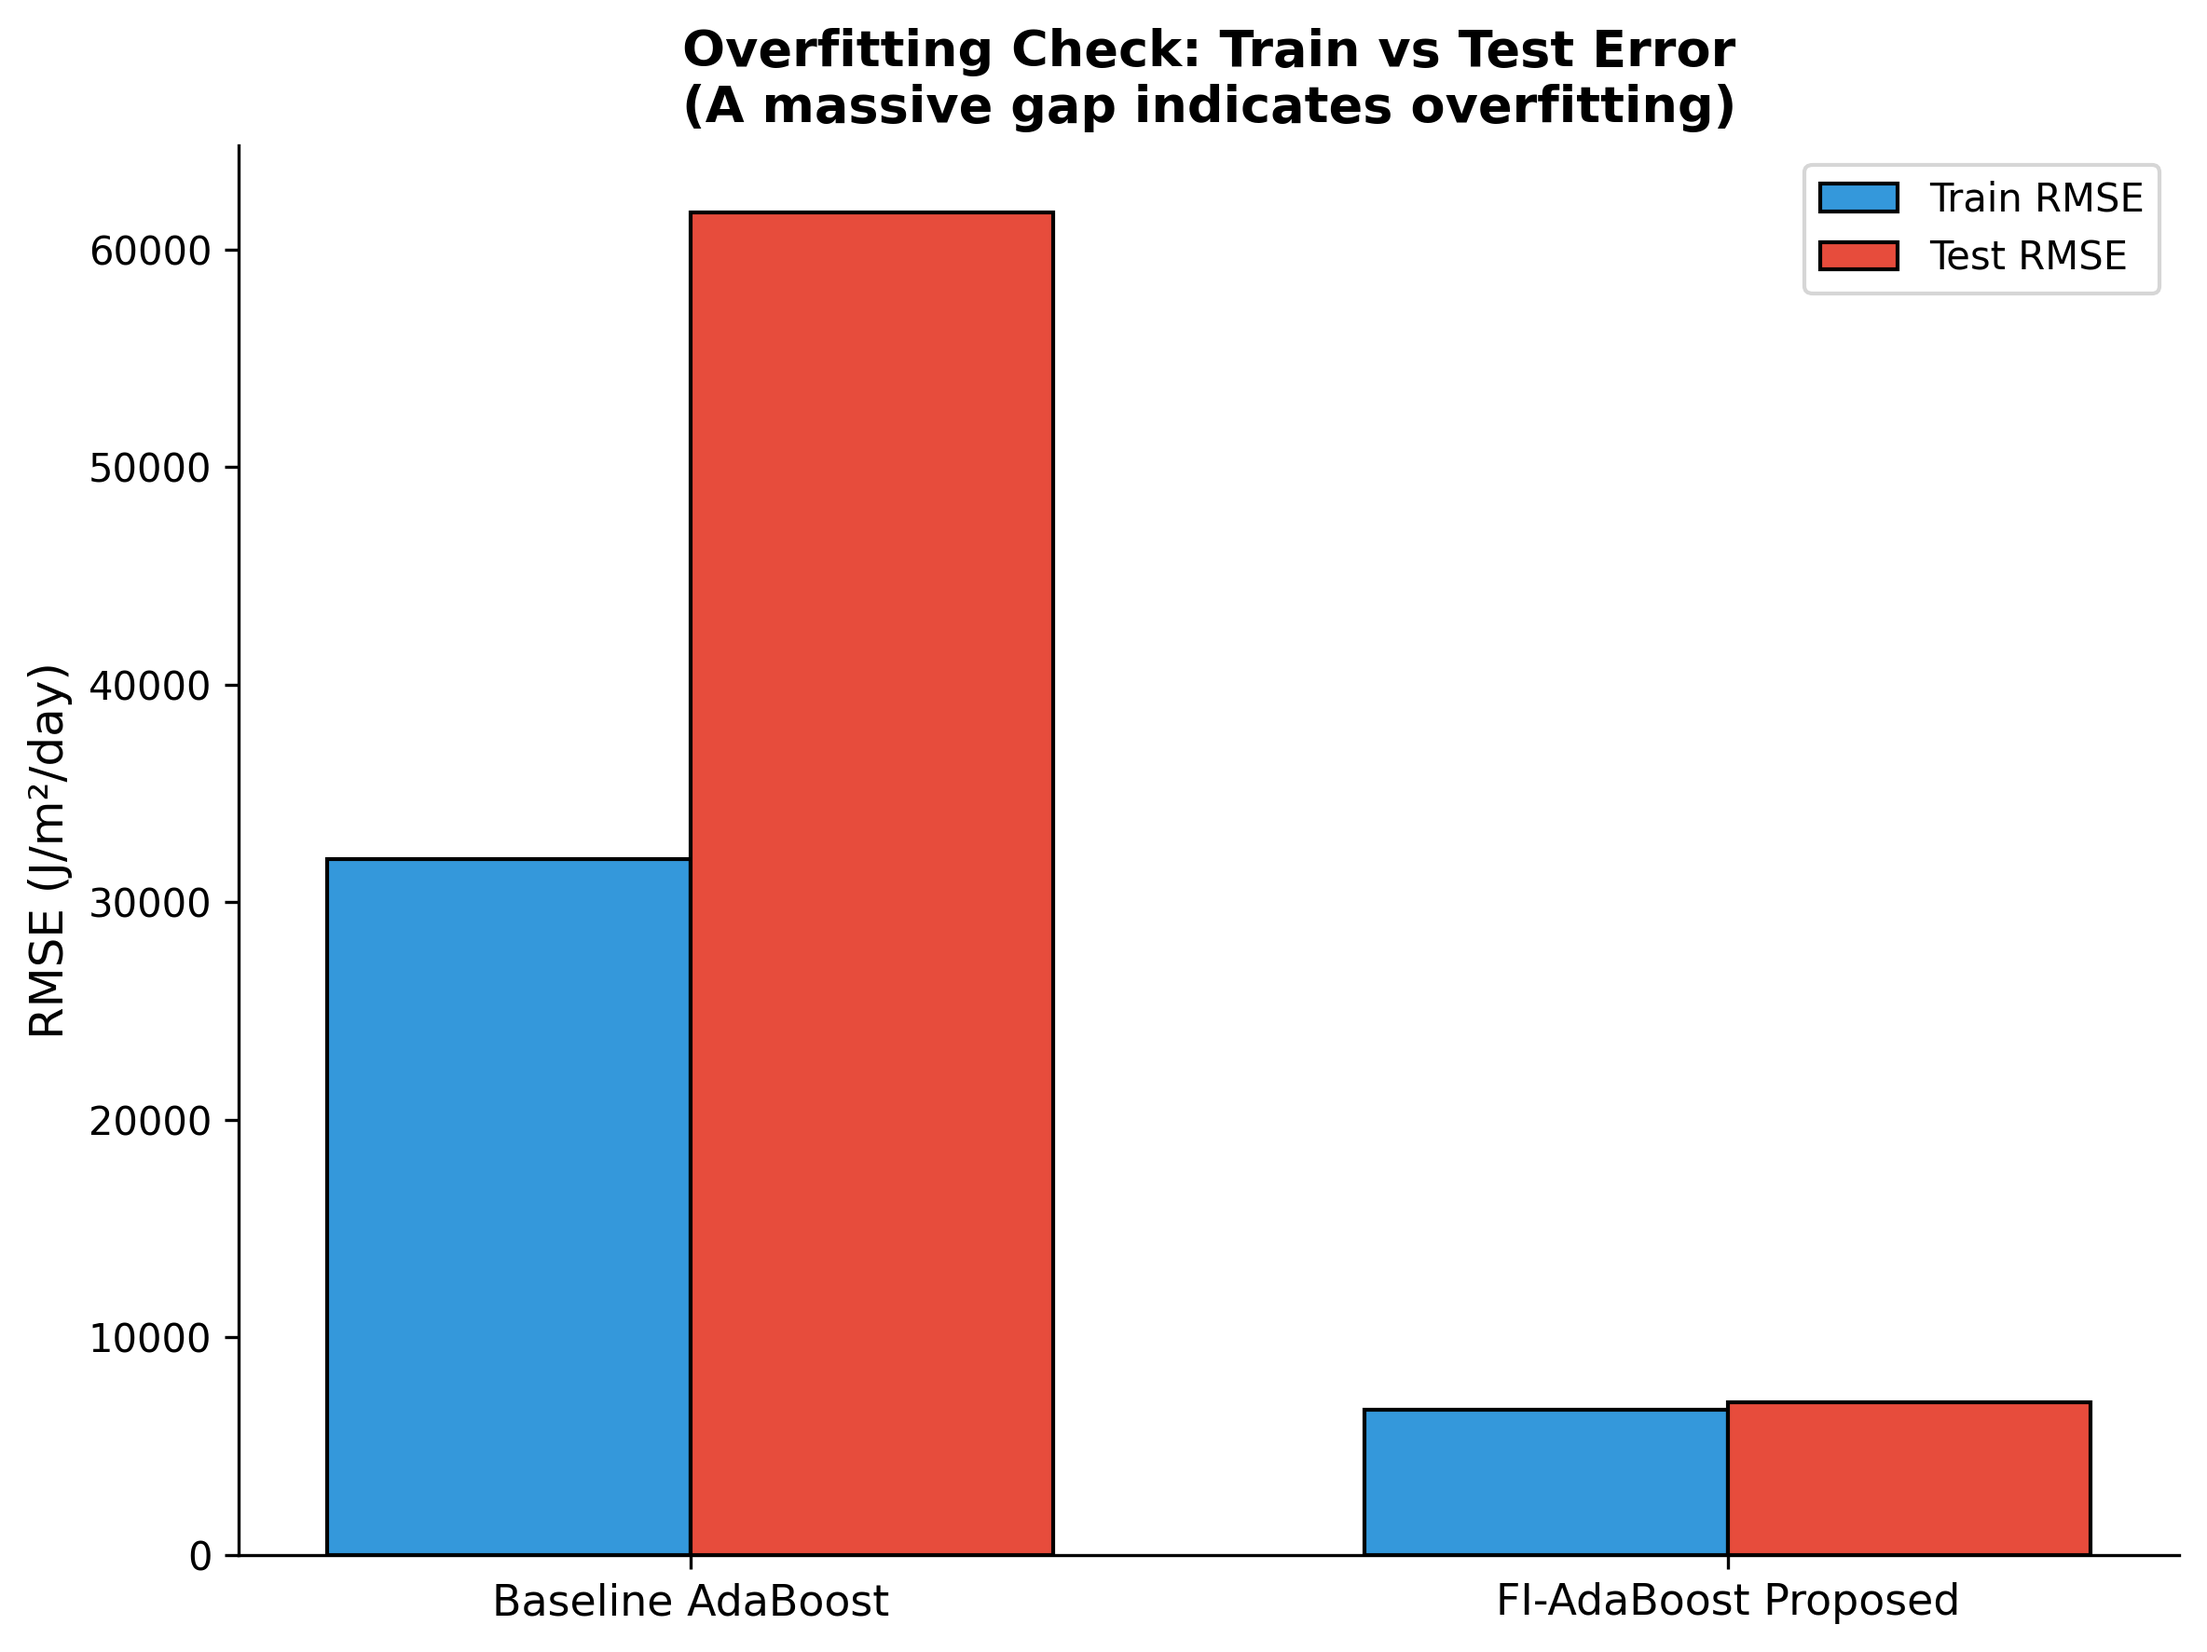
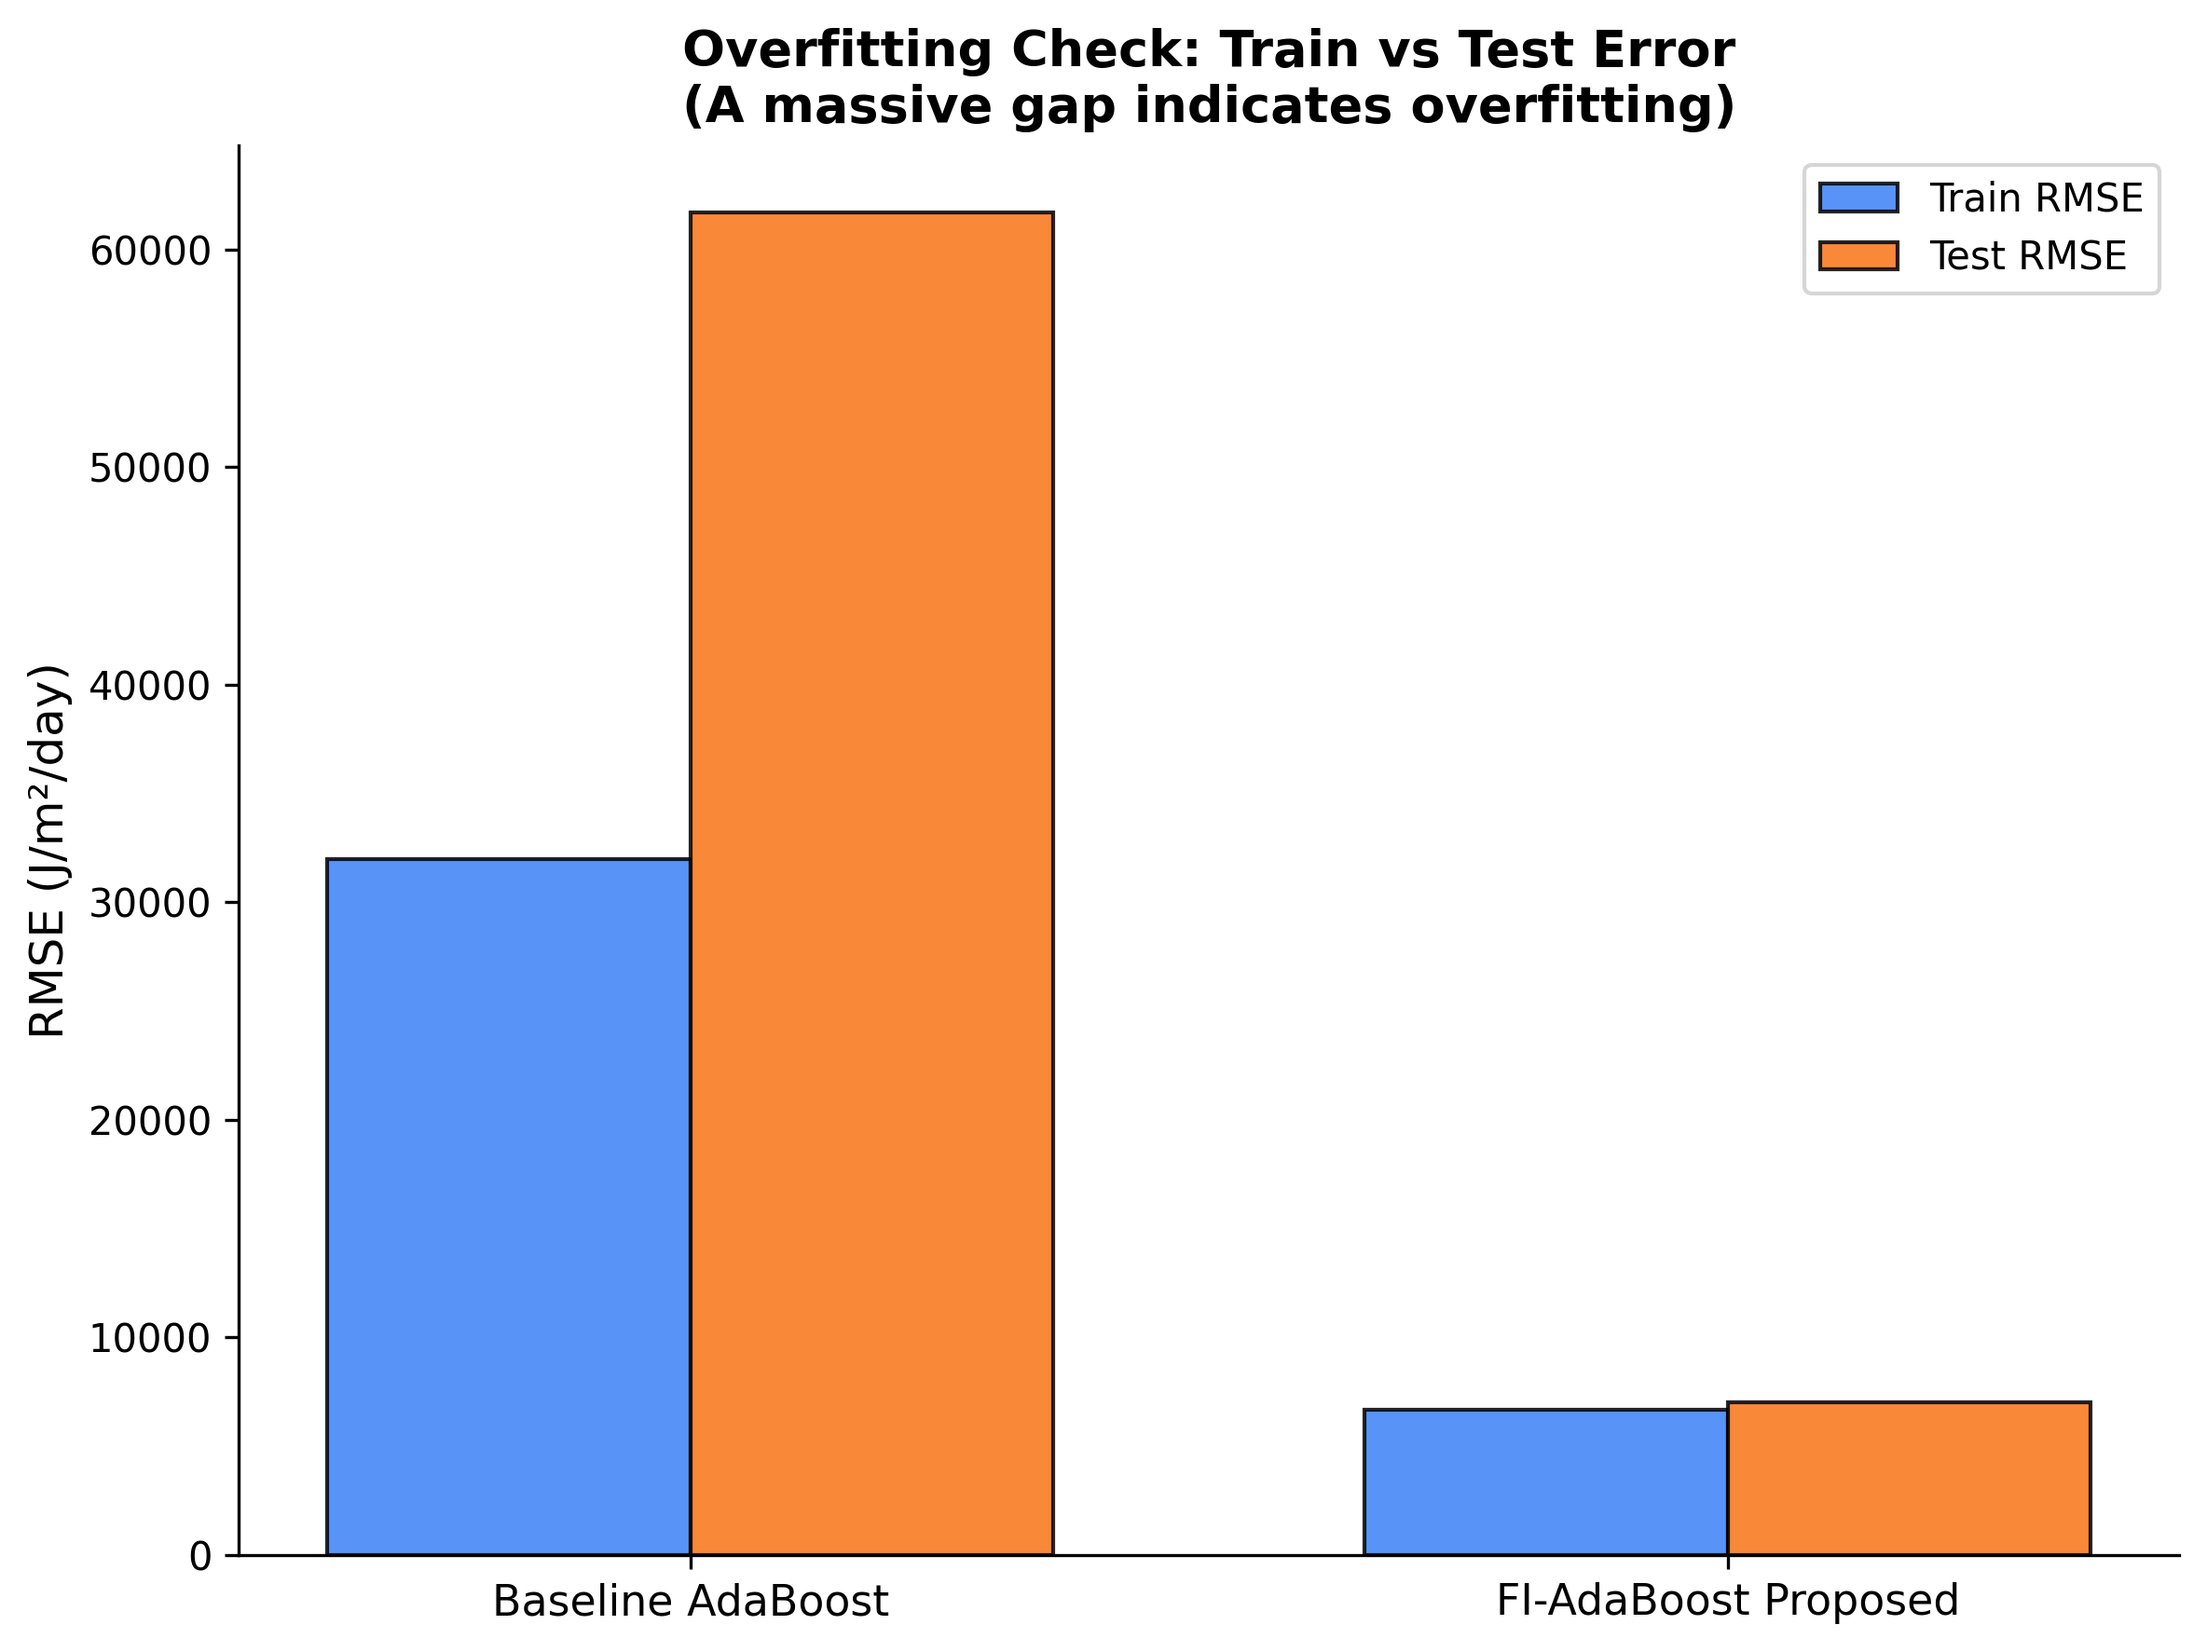
fix

Changed region(s): [[0.125, 0.1241, 0.5, 0.9616], [0.5938, 0.8376, 0.9688, 0.9616], [0.8125, 0.0931, 0.875, 0.1861]]

diff --git a/FIAdaBoost/src/model_training.py b/FIAdaBoost/src/model_training.py
@@ -920,8 +920,8 @@ def plot_overfit_check(ada_train_m, ada_test_m, fi_train_m, fi_test_m):
     width = 0.35
 
     fig, ax = plt.subplots(figsize=(8, 6))
-    rects1 = ax.bar(x - width / 2, train_rmse, width, label="Train RMSE", color="#3498DB", edgecolor="black")
-    rects2 = ax.bar(x + width / 2, test_rmse,  width, label="Test RMSE",  color="#E74C3C", edgecolor="black")
+    rects1 = ax.bar(x - width / 2, train_rmse, width, label="Train RMSE", color=C_ADA, edgecolor="black", alpha=0.85)
+    rects2 = ax.bar(x + width / 2, test_rmse,  width, label="Test RMSE",  color=C_FI,  edgecolor="black", alpha=0.85)
 
     ax.set_ylabel("RMSE (J/m²/day)", fontsize=12)
     ax.set_title("Overfitting Check: Train vs Test Error\n(A massive gap indicates overfitting)",
